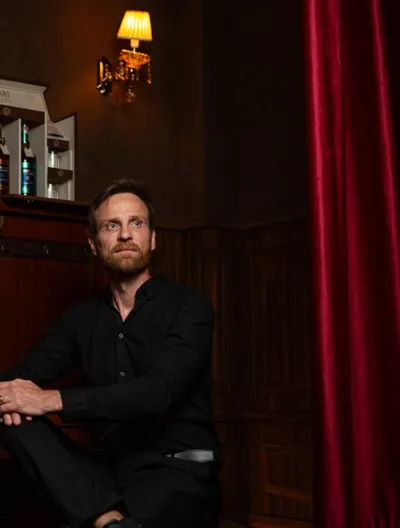
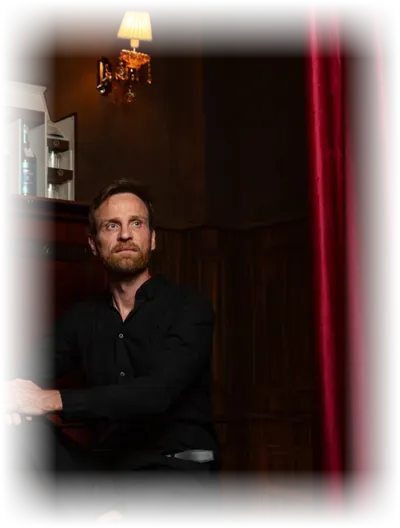
Home: miniaturas novas com a mesma borda em degradê das outras; rosto do Cuidador sobe

diff --git a/data/jornada.ts b/data/jornada.ts
@@ -216,7 +216,8 @@ const BASE: Base[] = [
     foco: ['50%', '35%'],
     lema: ['Cuidar', 'Proteger', 'Nutrir'],
     cor: true,
-    ajuste: { caminho: true },
+    ajuste: { caminho: true, rosto: true },
+    descer: { rosto: -13 },
   },
   {
     id: 'criador',
